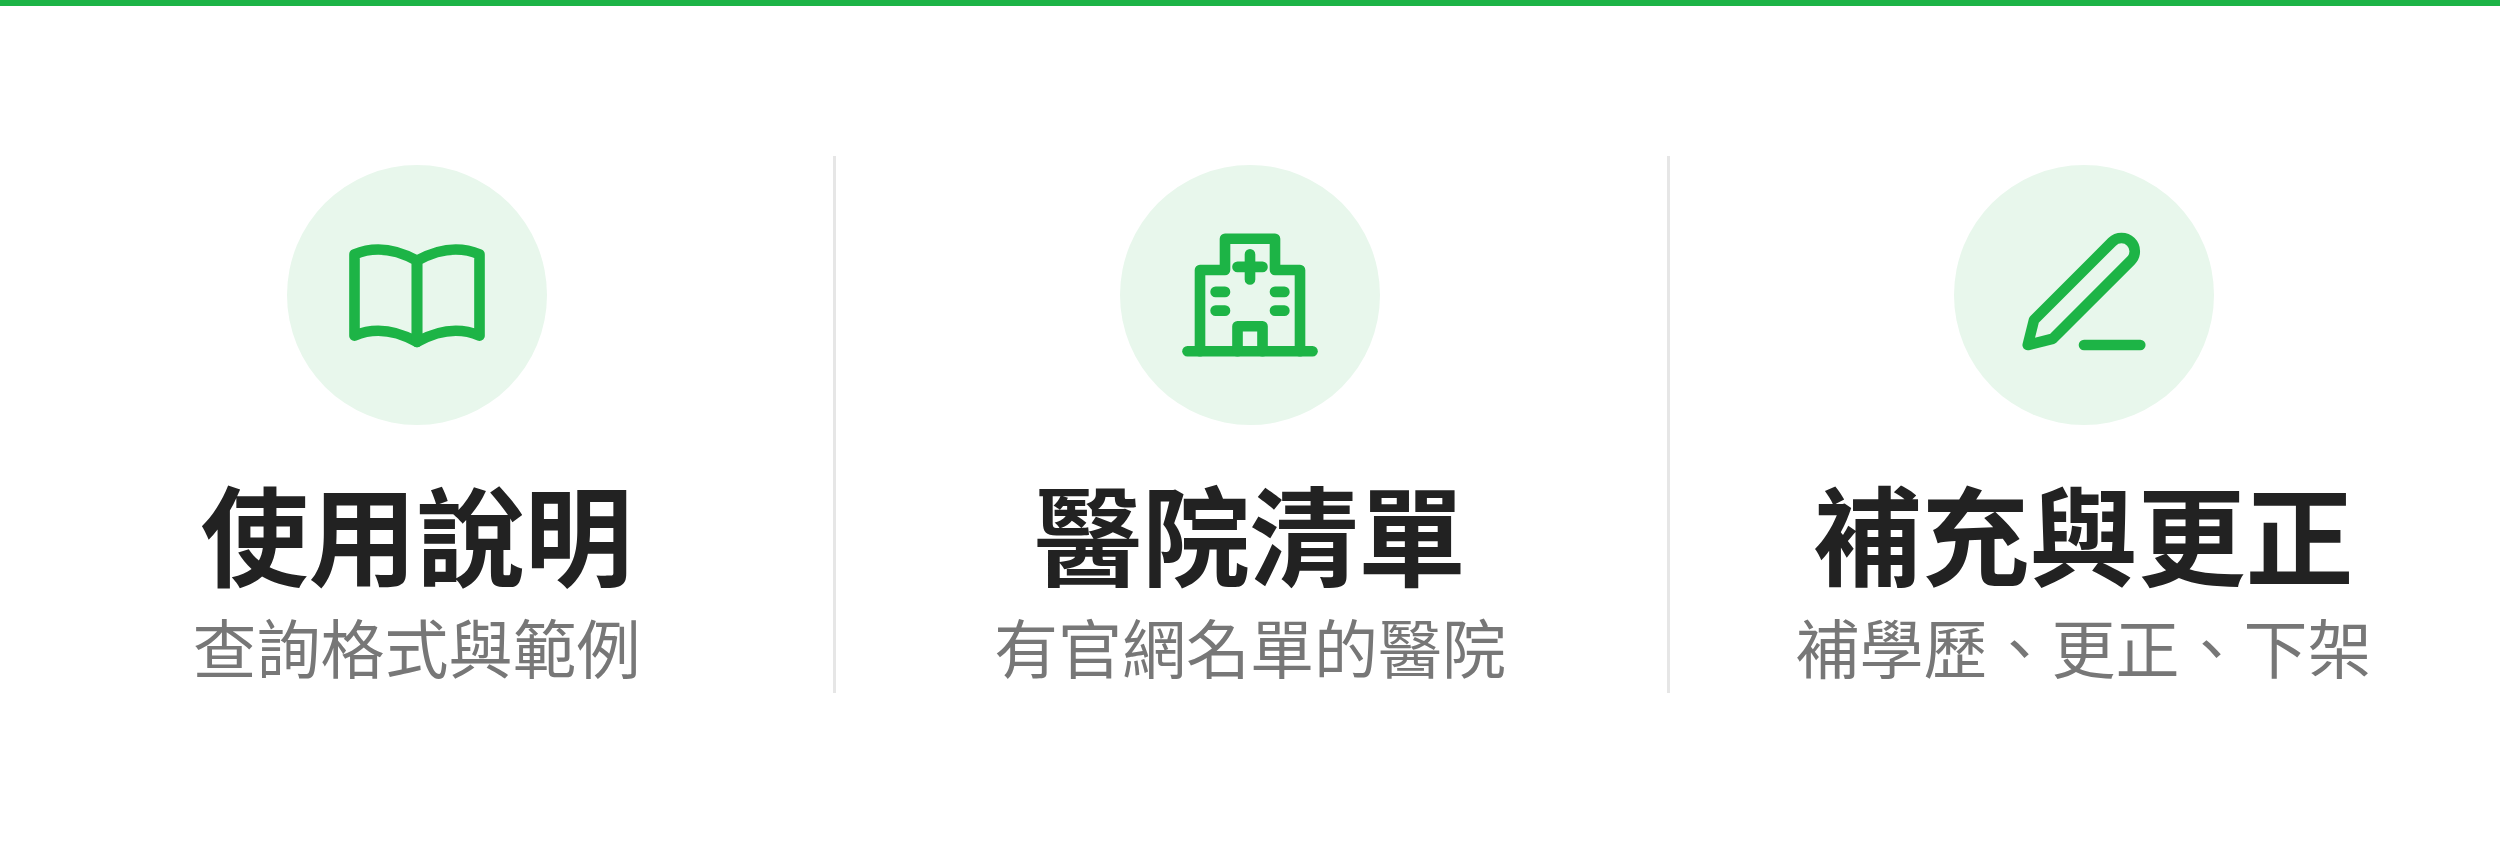
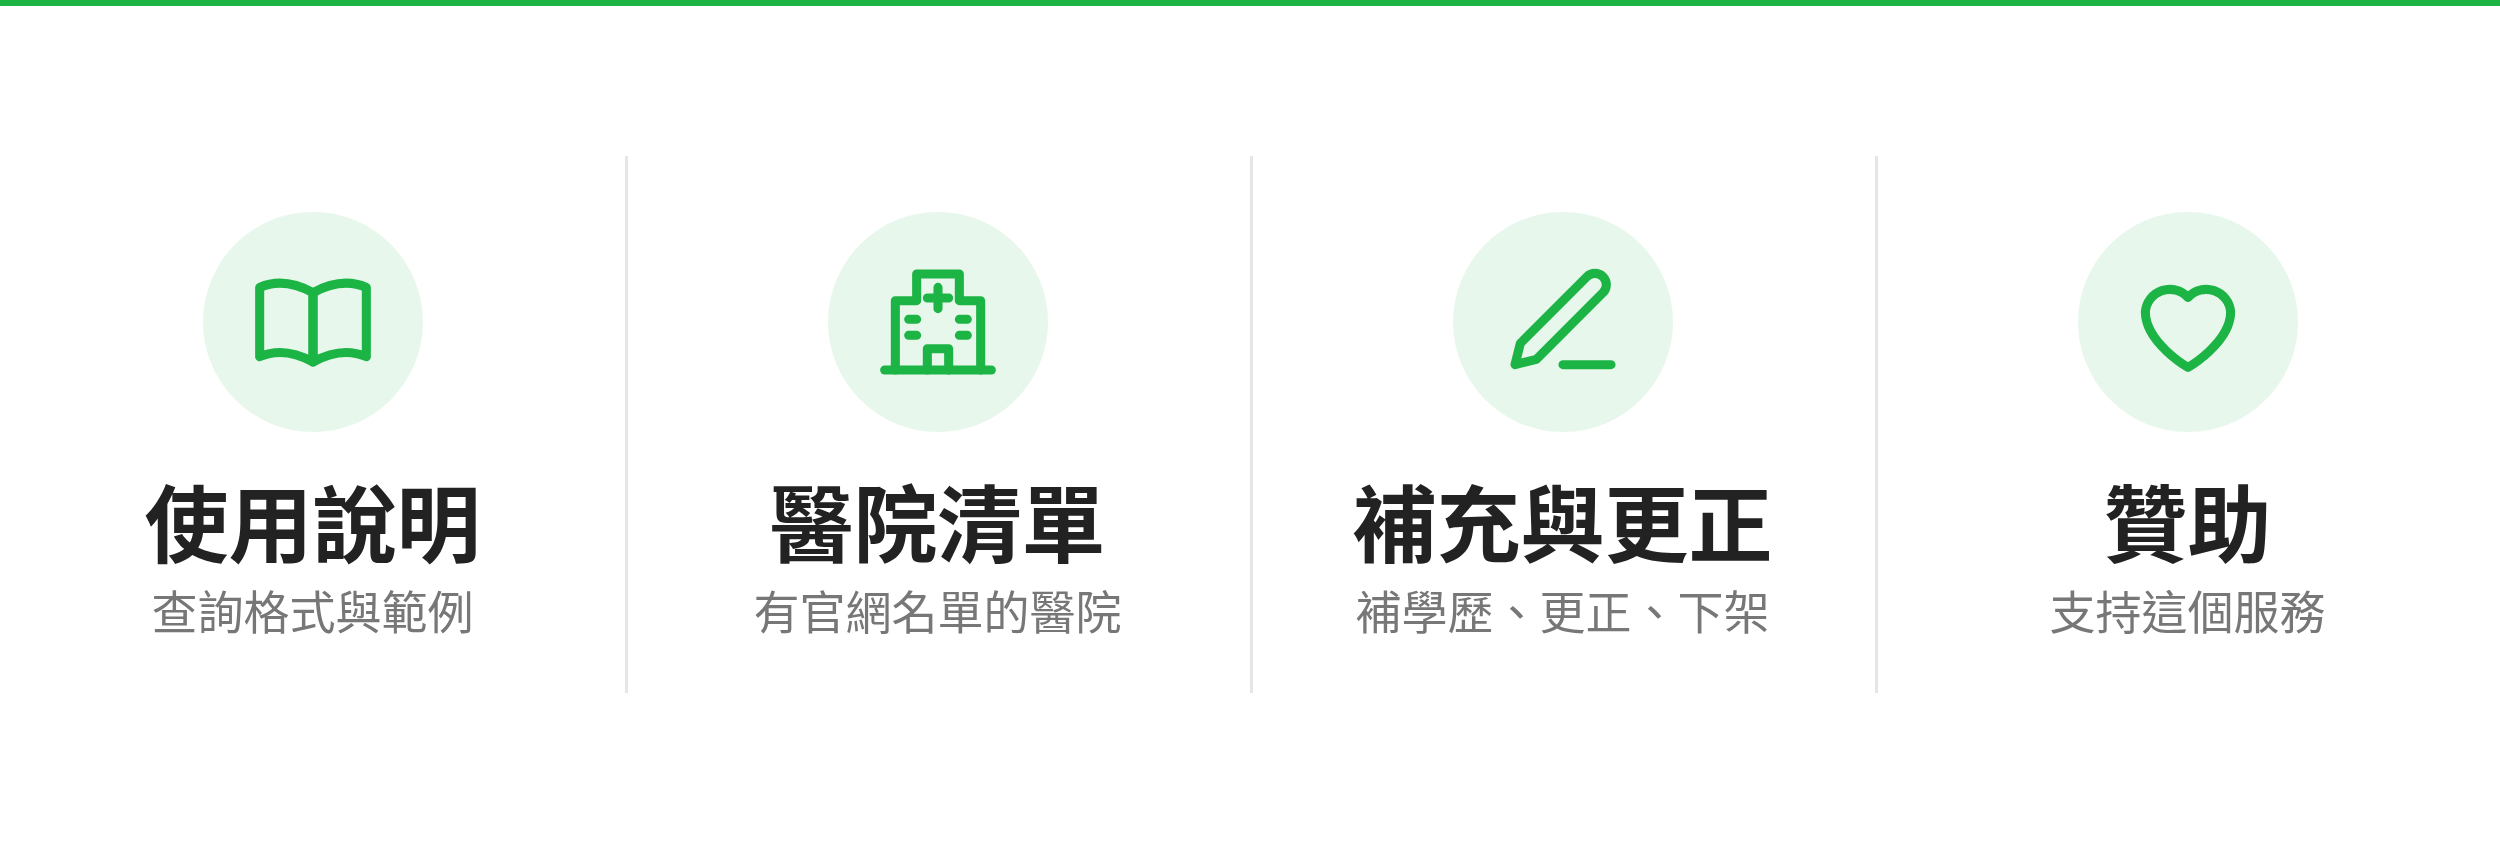
feat(linebot): support message on follow/help, 「贊助」 command, four-tile rich menu
- 「贊助」/donate replies with the rules then the ECPay link (OD-21)
- help and follow reply with the usage card plus a support message; the
  quick replies ride on the last message
- rich menu gets a fourth tile
- DonateURL moves to the template package so web and bot share it

Claude-Session: https://claude.ai/code/session_015SaNHffp5w7y6F9AbzYyHh

diff --git a/assets/richmenu/richmenu.html b/assets/richmenu/richmenu.html
@@ -1,6 +1,6 @@
 <!doctype html>
 <!--
-  Source of richmenu.png (docs/open-decisions.md OD-16). The three columns match the
+  Source of richmenu.png (docs/open-decisions.md OD-16). The four columns match the
   areas in richmenu.json. Render at 2500x843 with Noto Sans CJK TC installed:
     npx playwright screenshot --viewport-size=2500,843 assets/richmenu/richmenu.html assets/richmenu/richmenu.png
 -->
@@ -11,7 +11,7 @@
   html, body { margin: 0; width: 2500px; height: 843px; overflow: hidden; background: #ffffff; }
   body {
     display: grid;
-    grid-template-columns: 833px 834px 833px;
+    grid-template-columns: repeat(4, 625px);
     font-family: "Noto Sans CJK TC", "Noto Sans TC", sans-serif;
     border-top: 6px solid #1DB446;
     box-sizing: border-box;
@@ -25,16 +25,16 @@
     width: 3px; background: #e6e6e6;
   }
   .icon {
-    width: 260px; height: 260px; border-radius: 50%;
+    width: 220px; height: 220px; border-radius: 50%;
     background: #e8f7ec;
     display: flex; align-items: center; justify-content: center;
   }
   .icon svg {
-    width: 150px; height: 150px;
+    width: 128px; height: 128px;
     fill: none; stroke: #1DB446; stroke-width: 1.7; stroke-linecap: round; stroke-linejoin: round;
   }
-  .label { margin-top: 44px; font-size: 108px; font-weight: 700; color: #222222; line-height: 1.15; }
-  .sub { margin-top: 14px; font-size: 64px; color: #777777; line-height: 1.2; }
+  .label { margin-top: 40px; font-size: 84px; font-weight: 700; color: #222222; line-height: 1.15; }
+  .sub { margin-top: 14px; font-size: 46px; color: #777777; line-height: 1.2; }
 </style>
 </head>
 <body>
@@ -70,6 +70,15 @@
     </div>
     <div class="label">補充與更正</div>
     <div class="sub">補學歷、更正、下架</div>
+  </div>
+  <div class="tile">
+    <div class="icon">
+      <svg viewBox="0 0 24 24" aria-hidden="true">
+        <path d="M12 20.5s-8-4.6-8-10.4A4.6 4.6 0 0 1 12 7.4a4.6 4.6 0 0 1 8 2.7c0 5.8-8 10.4-8 10.4z"/>
+      </svg>
+    </div>
+    <div class="label">贊助</div>
+    <div class="sub">支持這個服務</div>
   </div>
 </body>
 </html>

diff --git a/internal/web/web_test.go b/internal/web/web_test.go
@@ -476,15 +476,15 @@ func TestSupportSection(t *testing.T) {
 		card := serve(t, New(f), target).Body.String()
 		require.Contains(t, card, `<aside class="support" aria-label="支持這個網站">`, target)
 		require.Contains(t, card, "收錄、排序、更正與下架都和贊助無關", target)
-		require.Contains(t, card, `<a href="`+donateURL+`" rel="noopener">到綠界贊助</a>`, target)
+		require.Contains(t, card, `<a href="`+linetemplate.DonateURL+`" rel="noopener">到綠界贊助</a>`, target)
 		require.Contains(t, card, `<a class="quiet" href="/about#support">贊助規則</a>`, target)
 	}
 	body := serve(t, New(&fakeStore{}), "/about").Body.String()
 	require.NotContains(t, body, `<aside class="support"`)
 	require.Contains(t, body, `<h2 id="support">支持這個網站</h2>`)
 	require.Contains(t, body, "贊助換不到任何東西")
-	require.Contains(t, body, `<a href="`+donateURL+`" rel="noopener">到綠界贊助</a>`)
-	require.Less(t, strings.Index(body, "贊助換不到任何東西"), strings.Index(body, donateURL), "the rules come before the link")
+	require.Contains(t, body, `<a href="`+linetemplate.DonateURL+`" rel="noopener">到綠界贊助</a>`)
+	require.Less(t, strings.Index(body, "贊助換不到任何東西"), strings.Index(body, linetemplate.DonateURL), "the rules come before the link")
 	// 綠界信用卡收款審核(2026-11-09):收費資訊與和綠界驗證相同的 Email,完整說明在送審的 jerrytech.me。
 	for _, want := range []string{"每筆最低新台幣 100 元", "7 天內來信", `<a href="https://jerrytech.me/support/">JerryTech 贊助與收費說明</a>`,
 		`<a href="mailto:jerrychuang@jerrytech.me">jerrychuang@jerrytech.me</a>`} {

diff --git a/internal/linebot/template/donate.go b/internal/linebot/template/donate.go
@@ -1,0 +1,27 @@
+package template
+
+import "encoding/json"
+
+// DonateCommand is the text that shows how to support the service; the rich menu's
+// 「贊助」 sends it (docs/open-decisions.md OD-21).
+const DonateCommand = "贊助"
+
+// DonateURL is the ECPay donation page, shared with 國會在幹嘛 (OD-20). Linked from
+// the web support card and /about#support, and from DonateText; always after the rules.
+const DonateURL = "https://p.ecpay.com.tw/6D8D974"
+
+// DonateText is a plain text message, not Flex: LINE turns the URL into a link only in
+// text messages. The rules mirror /about#support and come before the link (OD-20).
+const DonateText = "支持 POPO Finder（波波照妖鏡）\n\n" +
+	"這個服務免費、不放廣告。如果對你有用，歡迎贊助開發與營運：\n\n" +
+	"．贊助換不到任何東西：收錄、排序、更正與下架都和有沒有贊助無關。\n" +
+	"．不公開贊助者的名字、金額和留言。\n" +
+	"．不是公益捐款，不能抵稅，也沒有捐款收據。\n" +
+	"．金額自訂，每筆最低新台幣 100 元，單次付款不會自動扣款。\n" +
+	"．付款在綠界的頁面完成，我們拿不到卡號。重複付款或金額輸入錯誤，請在付款後 7 天內寄信至 " + ContactEmail + "，確認後退回該筆款項。\n\n" +
+	"到綠界贊助：\n" + DonateURL
+
+// DonateTextMessage returns the raw JSON for the reply to DonateCommand.
+func DonateTextMessage() (json.RawMessage, error) {
+	return json.Marshal(map[string]any{"type": "text", "text": DonateText})
+}

diff --git a/internal/web/web.go b/internal/web/web.go
@@ -35,10 +35,6 @@ const (
 	searchesPerDay    = 100
 	// lineAddURL adds the LINE bot as a friend.
 	lineAddURL = "https://lin.ee/h1GxF9s"
-	// donateURL is the ECPay donation page, shared with 國會在幹嘛 (OD-20). Linked
-	// from the support card above the footer (every page but /about) and from
-	// /about#support, always after the rules.
-	donateURL = "https://p.ecpay.com.tw/6D8D974"
 )
 
 //go:embed templates/*.html
@@ -179,7 +175,7 @@ func (h *Handler) about(w http.ResponseWriter, r *http.Request) {
 			FAQs        any
 			LineURL     string
 			DonateURL   string
-		}{linetemplate.CoverageText, differences, faqs, lineAddURL, donateURL}})
+		}{linetemplate.CoverageText, differences, faqs, lineAddURL, linetemplate.DonateURL}})
 }
 
 // cardLabels are the doctor cards' fixed texts, shared with LINE.
@@ -504,7 +500,7 @@ func mailto(subject string) string {
 
 func render(w http.ResponseWriter, status int, name string, p page) {
 	p.LineURL = lineAddURL
-	p.DonateURL = donateURL
+	p.DonateURL = linetemplate.DonateURL
 	p.RepoURL = repoURL
 	p.HeaderSearch = name != "home"
 	p.OGImage = siteURL + "/og.png"

diff --git a/internal/linebot/template/help.go b/internal/linebot/template/help.go
@@ -204,11 +204,26 @@ var helpQuickReply = []QuickReplyAction{
 	{Label: HospitalListCommand, Text: HospitalListCommand},
 }
 
-// HelpFlexMessage returns the raw JSON for the help usage message with example quick replies.
+// HelpFlexMessage returns the raw JSON for the help usage card, without quick replies.
 func HelpFlexMessage() (json.RawMessage, error) {
-	msg, err := buildFlexMessage("使用說明", helpContents)
+	return buildFlexMessage("使用說明", helpContents)
+}
+
+// HelpMessages is the reply to the help command and to a new follower: the usage card,
+// then the support message (OD-21). LINE only shows the quick reply of the last message,
+// so the example searches ride on the support message.
+func HelpMessages() ([]json.RawMessage, error) {
+	help, err := HelpFlexMessage()
 	if err != nil {
 		return nil, err
 	}
-	return WithQuickReply(msg, helpQuickReply)
+	donate, err := DonateTextMessage()
+	if err != nil {
+		return nil, err
+	}
+	donate, err = WithQuickReply(donate, helpQuickReply)
+	if err != nil {
+		return nil, err
+	}
+	return []json.RawMessage{help, donate}, nil
 }

diff --git a/internal/linebot/handler/message.go b/internal/linebot/handler/message.go
@@ -38,11 +38,11 @@ func (h *MessageHandler) Handle(ctx context.Context, event webhook.Event, c *cli
 	// Help command
 	lower := strings.ToLower(text)
 	if lower == helpCommand || lower == "help" {
-		helpMsg, err := template.HelpFlexMessage()
+		msgs, err := template.HelpMessages()
 		if err != nil {
 			return err
 		}
-		return c.Reply(ctx, event.ReplyToken, []json.RawMessage{helpMsg})
+		return c.Reply(ctx, event.ReplyToken, msgs)
 	}
 
 	// Hospital list command (OD-12)
@@ -65,6 +65,15 @@ func (h *MessageHandler) Handle(ctx context.Context, event webhook.Event, c *cli
 			return err
 		}
 		return c.Reply(ctx, event.ReplyToken, []json.RawMessage{reportMsg})
+	}
+
+	// How to support the service (OD-21)
+	if text == template.DonateCommand || lower == "donate" {
+		donateMsg, err := template.DonateTextMessage()
+		if err != nil {
+			return err
+		}
+		return c.Reply(ctx, event.ReplyToken, []json.RawMessage{donateMsg})
 	}
 
 	// Parse and execute search

diff --git a/internal/linebot/handler/follow.go b/internal/linebot/handler/follow.go
@@ -2,7 +2,6 @@ package handler
 
 import (
 	"context"
-	"encoding/json"
 	"log/slog"
 
 	"github.com/dfgh012316/popofinder/internal/database"
@@ -11,15 +10,15 @@ import (
 	"github.com/dfgh012316/popofinder/internal/linebot/webhook"
 )
 
-// FollowHandler handles FollowEvent — sends the help message to new followers.
+// FollowHandler handles FollowEvent — sends the help and support messages to new followers.
 type FollowHandler struct{}
 
 func (h *FollowHandler) Handle(ctx context.Context, event webhook.Event, c *client.Client, _ *database.Repository) error {
 	slog.Info("[Follow]", "userId", event.Source.UserID)
 
-	helpMsg, err := template.HelpFlexMessage()
+	msgs, err := template.HelpMessages()
 	if err != nil {
 		return err
 	}
-	return c.Reply(ctx, event.ReplyToken, []json.RawMessage{helpMsg})
+	return c.Reply(ctx, event.ReplyToken, msgs)
 }

diff --git a/internal/linebot/template/help_test.go b/internal/linebot/template/help_test.go
@@ -9,9 +9,16 @@ import (
 	"github.com/stretchr/testify/require"
 )
 
-func TestHelpFlexMessageQuickReply(t *testing.T) {
-	raw, err := HelpFlexMessage()
+// Help and a new follow reply with the usage card, then the support message (OD-21).
+// LINE shows only the last message's quick reply, so the examples ride on the support message.
+func TestHelpMessages(t *testing.T) {
+	msgs, err := HelpMessages()
 	require.NoError(t, err)
+	require.Len(t, msgs, 2)
+	require.NotContains(t, string(msgs[0]), "quickReply")
+	require.Contains(t, string(msgs[1]), DonateURL)
+	require.Less(t, strings.Index(DonateText, "贊助換不到任何東西"), strings.Index(DonateText, DonateURL), "the rules come before the link")
+	raw := msgs[1]
 
 	var got struct {
 		QuickReply struct {

diff --git a/internal/linebot/handler/richmenu_test.go b/internal/linebot/handler/richmenu_test.go
@@ -31,7 +31,7 @@ func TestRichMenuSendsCommands(t *testing.T) {
 	require.NoError(t, json.Unmarshal(data, &menu))
 	require.LessOrEqual(t, utf8.RuneCountInString(menu.ChatBarText), 14, "LINE chat bar text limit")
 
-	commands := map[string]bool{helpCommand: true, template.HospitalListCommand: true, template.ReportCommand: true}
+	commands := map[string]bool{helpCommand: true, template.HospitalListCommand: true, template.ReportCommand: true, template.DonateCommand: true}
 	for _, a := range menu.Areas {
 		require.Equal(t, "message", a.Action.Type)
 		require.True(t, commands[a.Action.Text], "%q is not a command", a.Action.Text)

diff --git a/internal/linebot/template/donate_test.go b/internal/linebot/template/donate_test.go
@@ -1,0 +1,19 @@
+package template
+
+import (
+	"encoding/json"
+	"testing"
+
+	"github.com/stretchr/testify/require"
+)
+
+func TestDonateText(t *testing.T) {
+	raw, err := DonateTextMessage()
+	require.NoError(t, err)
+	var m struct{ Type, Text string }
+	require.NoError(t, json.Unmarshal(raw, &m))
+	require.Equal(t, "text", m.Type)
+	for _, want := range []string{"贊助換不到任何東西", "每筆最低新台幣 100 元", "7 天內", ContactEmail, DonateURL} {
+		require.Contains(t, m.Text, want)
+	}
+}

diff --git a/docs/open-decisions.md b/docs/open-decisions.md
@@ -287,7 +287,7 @@
     - 覆蓋率 8 成時才開放沒有學歷的列,剩下 2 成的「尚未提供」本身就成了信號:這是第 4 節否決的信號/揭露引擎,也是鐵律 1 的「冤枉沉默者」。
     - 藏起來的名單對現在的使用者沒有價值,卻要保管數萬人的個資;「我們有你的名字,來補學歷」也接近鐵律 5 的「資料當人質」。量覆蓋率只需要衛福部的人數。
 
-## OD-16 — 圖文選單放 repo、用 Messaging API 套用;精簡三格
+## OD-16 — 圖文選單放 repo、用 Messaging API 套用;精簡三格(2026-11-18 起四格,見 OD-21)
 
 - **日期**:2026-11-01
 - **狀態**:✅ 採納
@@ -360,7 +360,8 @@
 - **日期**:2026-11-08
 - **狀態**:✅ 採納
 - **決策**:
-  - 網頁版每頁的頁尾加「支持這個網站」,連到 `/about#support`;那一節先寫底線,再連到綠界「實況主收款」的贊助頁(`internal/web` 的 `donateURL`)。LINE bot 不放。
+  - 網頁版每頁的頁尾加「支持這個網站」,連到 `/about#support`;那一節先寫底線,再連到綠界「實況主收款」的贊助頁(`DonateURL`,放在 `internal/linebot/template`,網頁與 bot 共用)。LINE bot 不放。
+    - 2026-11-18 補註:被 OD-21 推翻,LINE bot 也放。
     - 2026-11-08 補註(同日):使用者認為頁尾一個小連結太不顯眼,有意願的人也不一定看得到。改成 `/about` 以外的每一頁(含查詢結果頁)在頁尾上方放一張卡片:「支持 POPO Finder」、一句「免費、不放廣告」、一行「收錄、排序、更正與下架都和贊助無關」,按鈕直接連綠界,旁邊「贊助規則」連到 `/about#support`;頁尾的小連結拿掉。openlawmaker 同時改成一樣的卡片。
   - 底線:網站永遠免費、不放廣告;任何人都可以贊助,但贊助換不到任何東西,收錄、排序、更正與下架都和有沒有贊助無關,一律照 `/report` 的方式處理;不公開贊助者的名字、金額與留言;不是公益捐款,不能抵稅、沒有捐款收據;付款在綠界的頁面完成。
   - 贊助頁和「國會在幹嘛」(openlawmaker)共用一頁(綠界後台只能開一個)。橫幅寫的是 LINE 上的名稱「波波照妖鏡」(使用者選的:知名度較高),網頁版叫 POPO Finder,所以 `/about` 寫明那是這個服務在 LINE 上的名稱。
@@ -370,3 +371,17 @@
   - 使用者 2026-11-08 開通綠界,決定 openlawmaker 與 popofinder 網頁版都放;看過 OD-17 的理由後,決定推翻。
   - OD-17 擔心被攻擊成「拿醫師的資料賺錢」:用「贊助換不到任何東西」這條底線回應,收錄、排序與下架不受贊助影響,下架照舊是 OD-8、OD-9 的流程。綠界是個人帳號、不開發票,前提也是贊助沒有對價。
   - OD-17 提到的個資法疑慮(用具名醫師的資料募款,比純公益用途難站得住)這次沒有另外處理,使用者知道後仍決定放。
+
+## OD-21 — LINE bot 也放贊助(推翻 OD-20 的「LINE bot 不放」)
+
+- **日期**:2026-11-18
+- **狀態**:✅ 採納
+- **決策**:
+  - 新增指令「贊助」(`template.DonateCommand`,也收 `donate`),回覆純文字 `DonateText`:免費不放廣告、贊助換不到任何東西、不公開贊助者、非公益捐款無收據、金額自訂最低 100 元單次付款、7 天內來信可退,規則在前,綠界連結(`DonateURL`)在最後。內容對齊 `/about#support`(OD-20)。
+  - 「幫助」指令與新加入好友(follow)都多回一則贊助訊息:先使用說明卡片,再贊助文字(`template.HelpMessages`)。LINE 只顯示最後一則的 quick reply,所以範例查詢的 quick reply 掛在贊助訊息上。
+  - 圖文選單改四格(每格 625px):使用說明、醫院清單、補充與更正、贊助(送「贊助」)。
+  - 查詢結果不放贊助:那裡是具名醫師的資料,最像 OD-17 擔心的「拿醫師資料募款」,也會干擾核心功能。
+  - 底線、只放連結不接 ReturnURL、不存任何贊助資料,全部沿用 OD-20。
+- **理由**:
+  - 使用者認為 LINE 是主要使用場景,綠界橫幅用的也是 LINE 上的名稱「波波照妖鏡」,bot 不放說不通;使用者決定 follow、幫助與圖文選單都放。
+  - 贊助連結與規則共用 `DonateURL`,網頁與 bot 不各抄一份。
